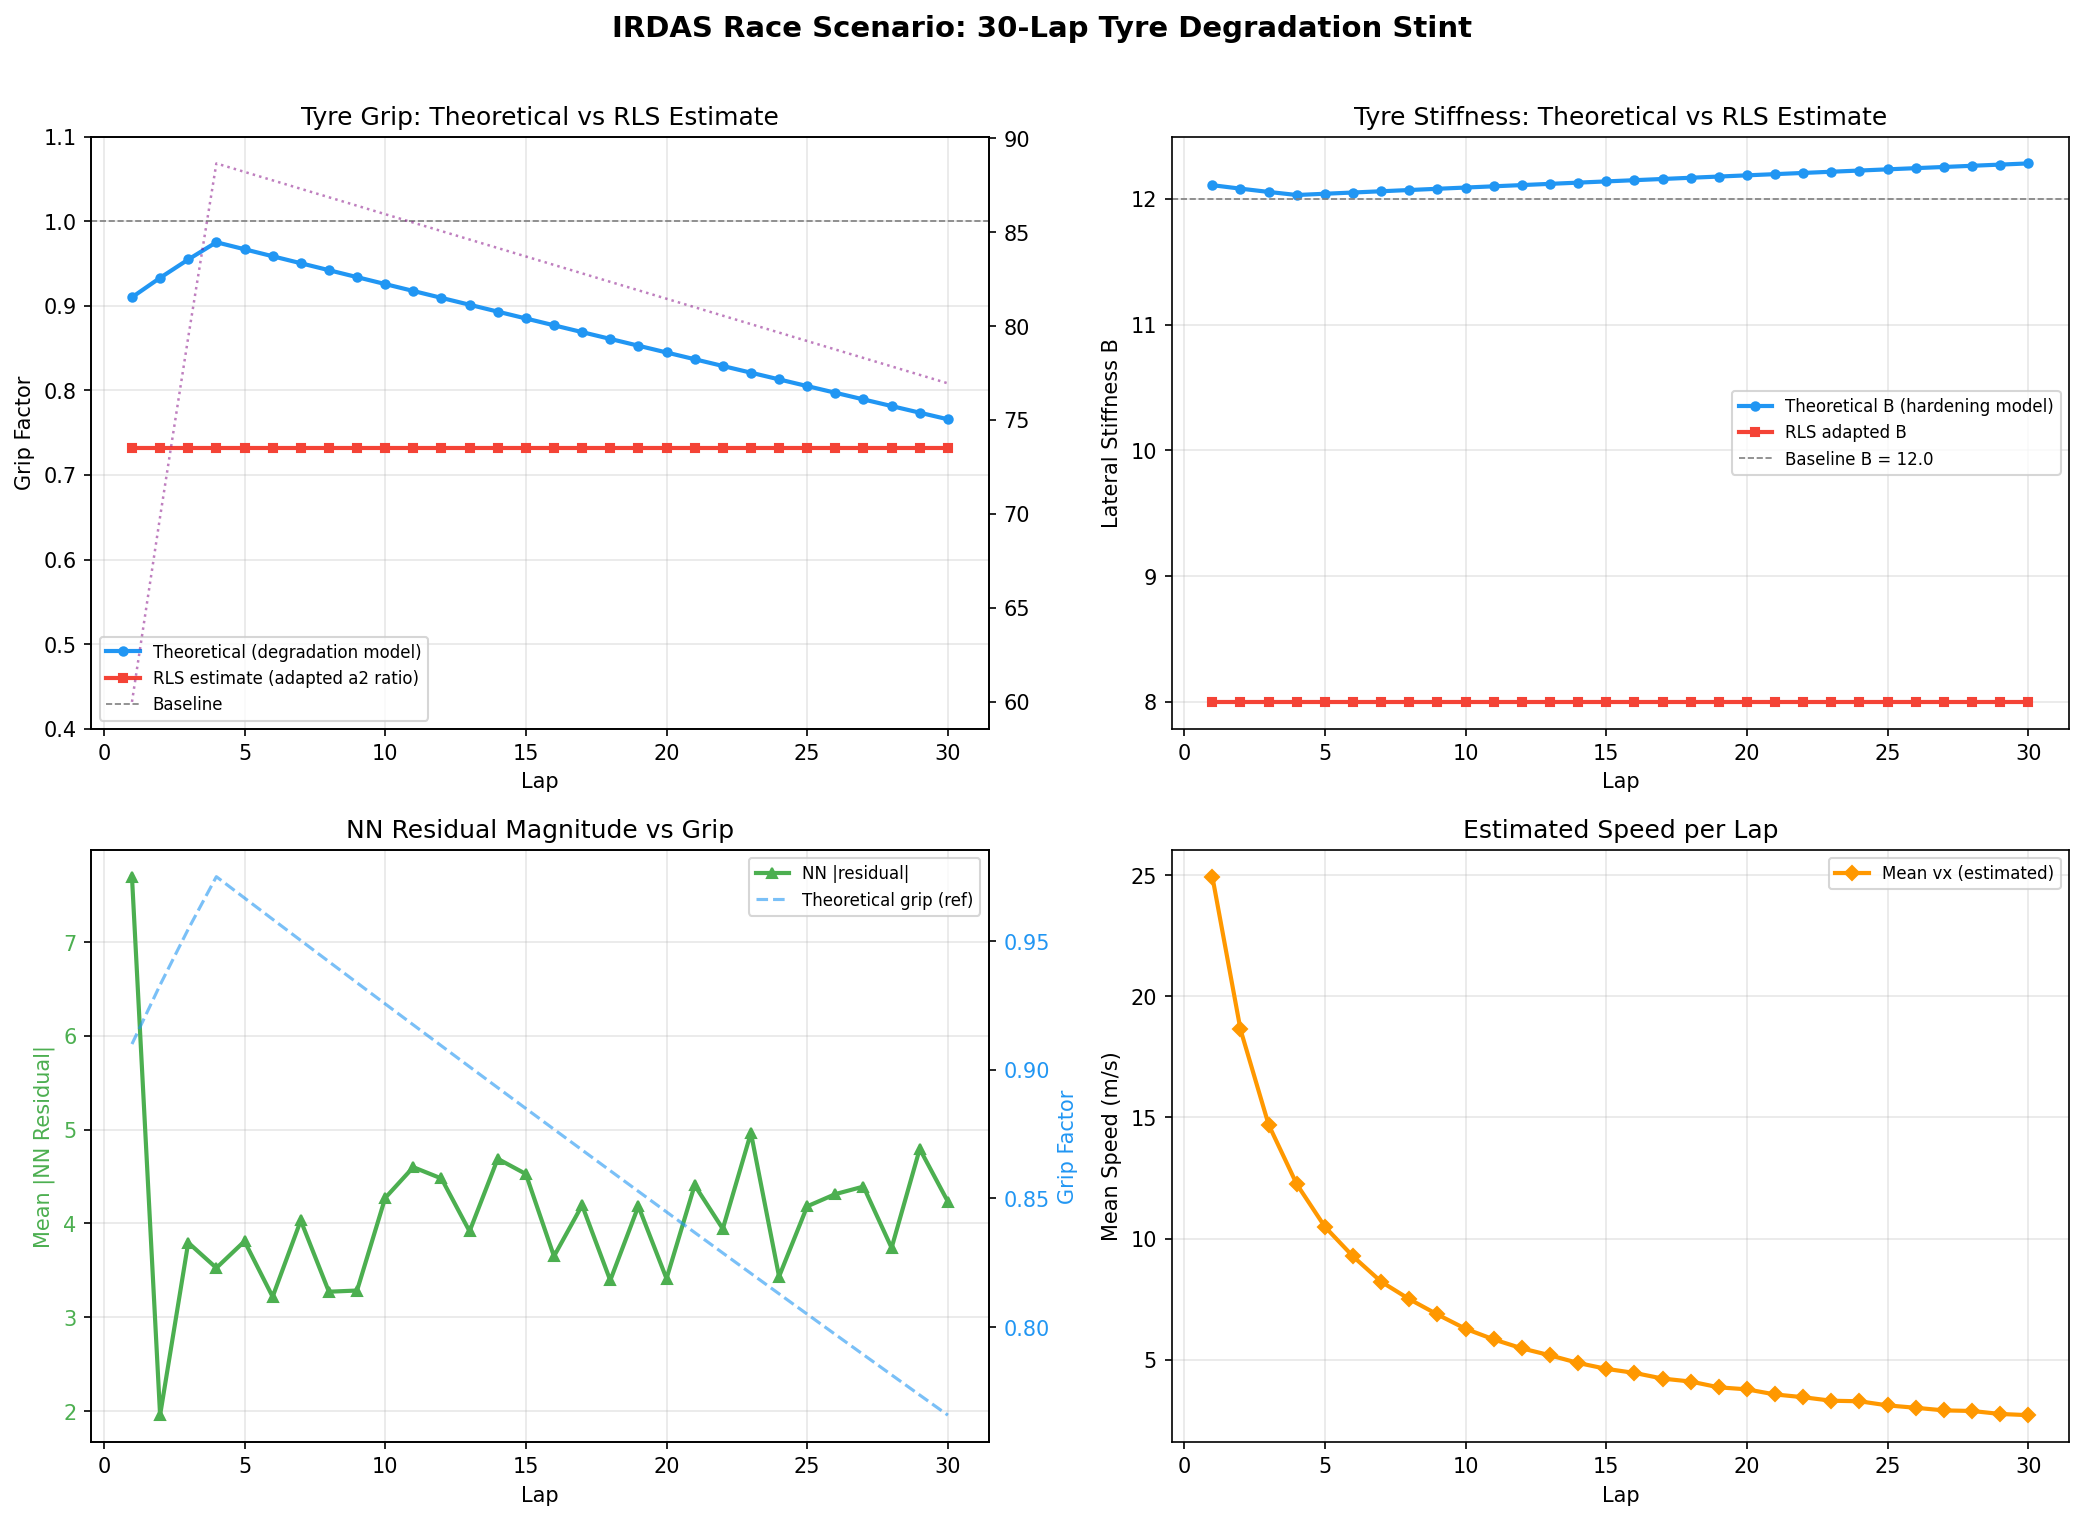
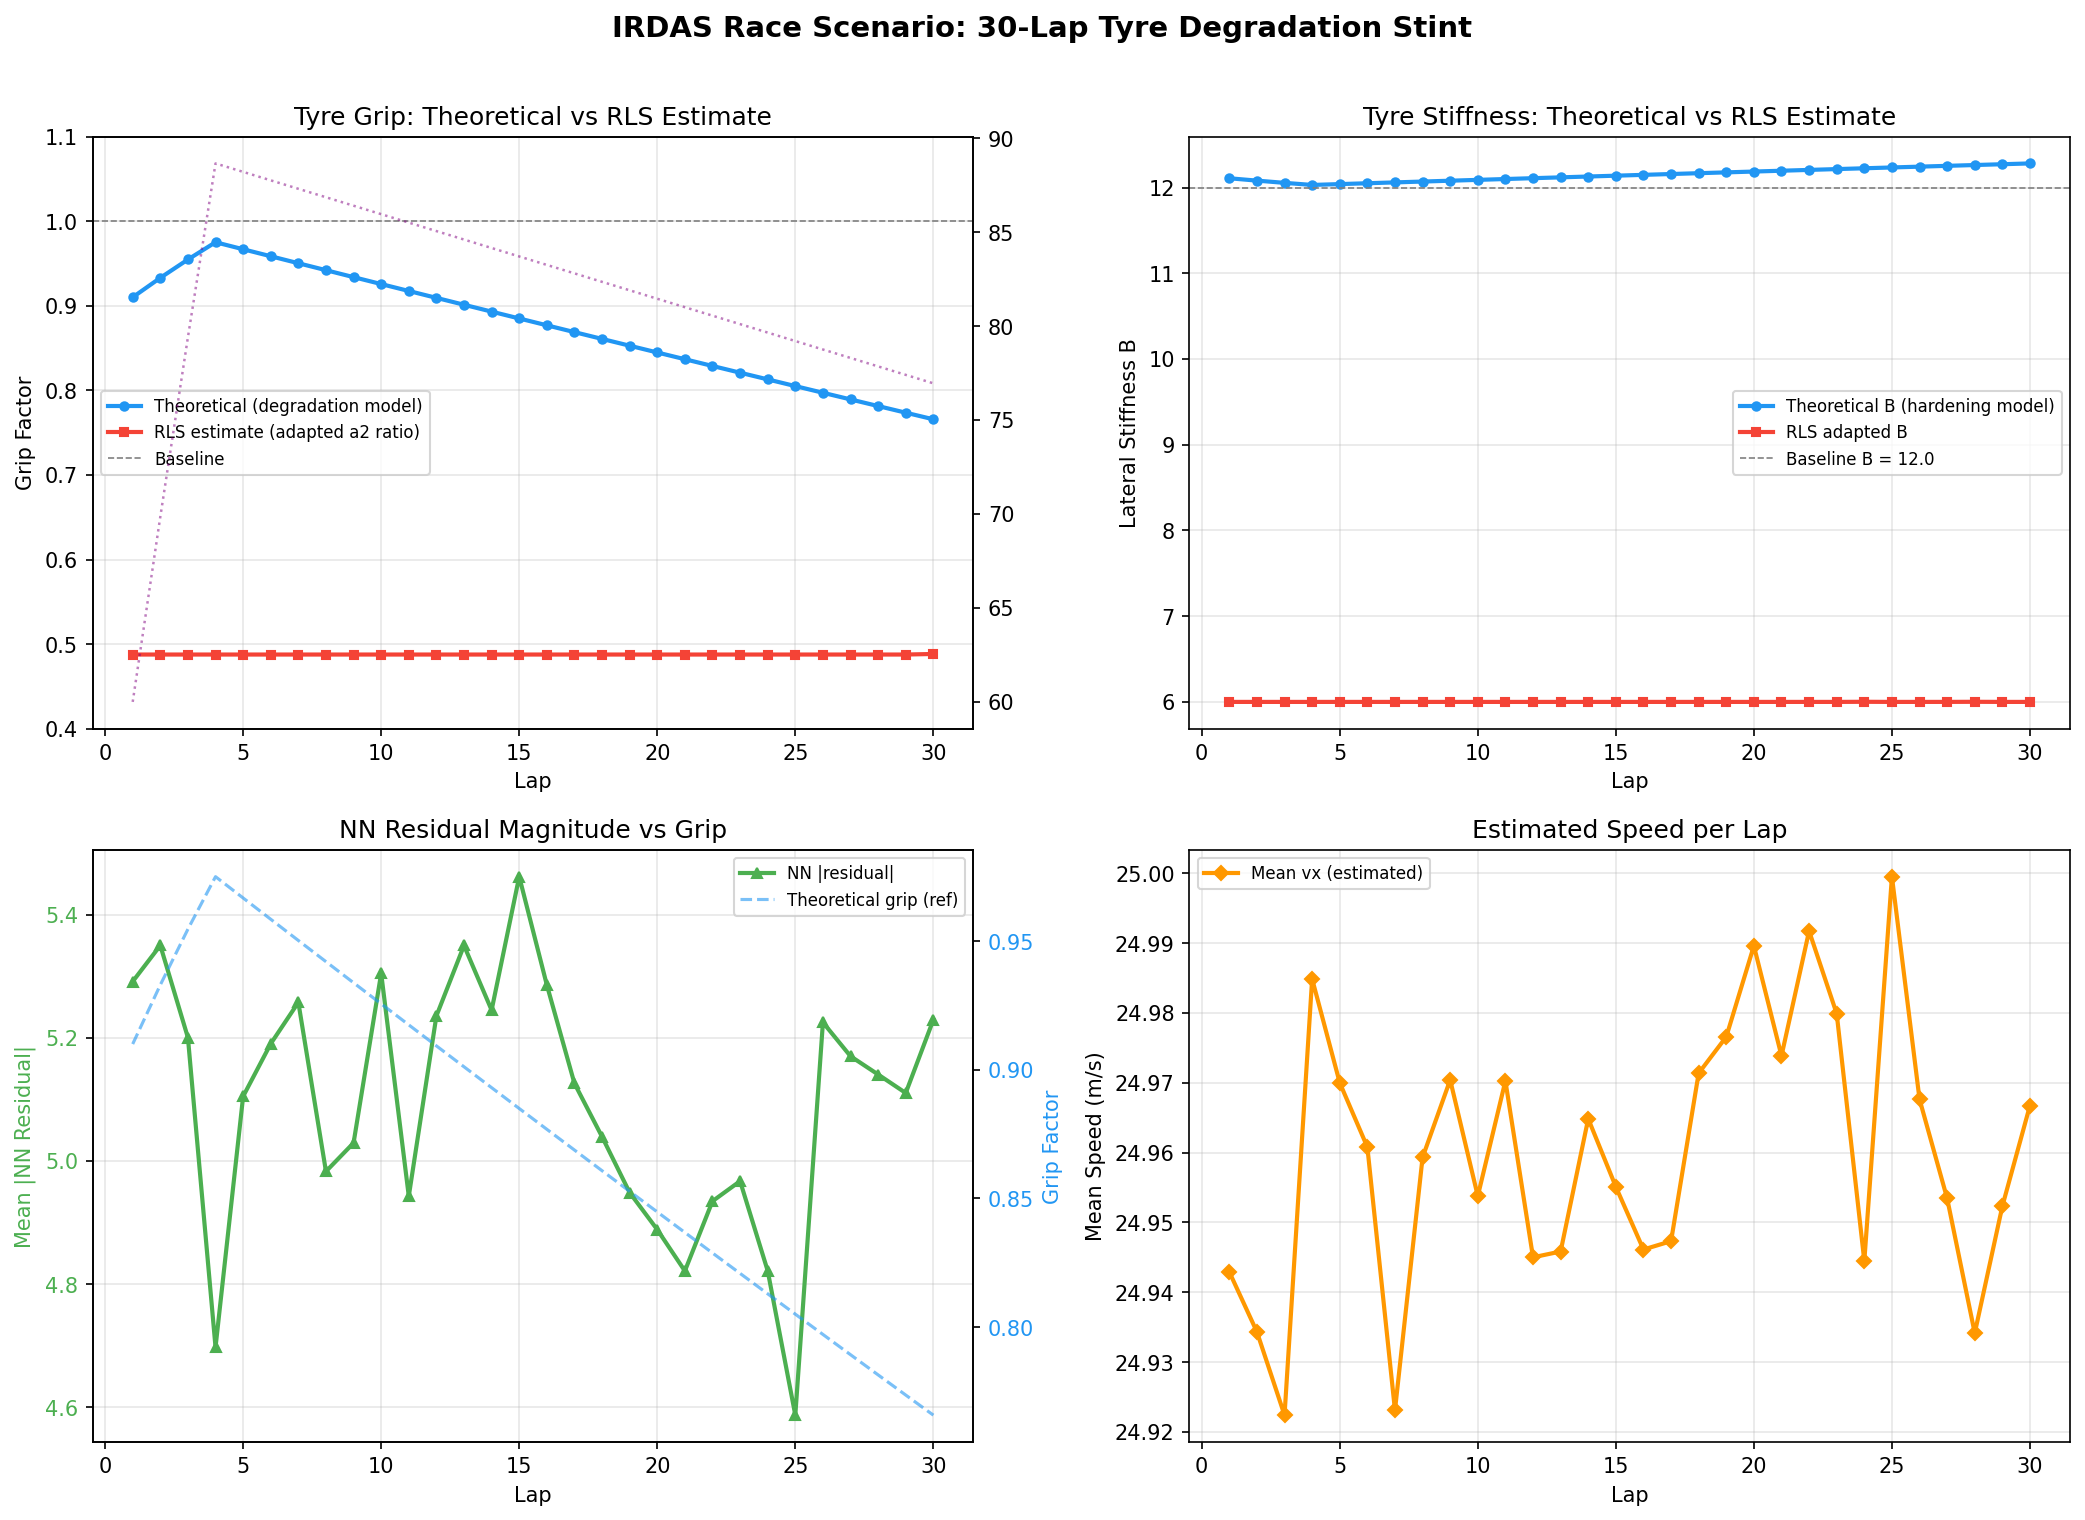
More fixes

diff --git a/irdas_main.py b/irdas_main.py
@@ -355,8 +355,7 @@ class IRDAS:
         
         # Step 1: Get true state from real vehicle simulator
         
-                
-        true_state_before = self.true_state.copy()          # save BEFORE stepping
+        true_state_before = self.true_state.copy()          # snapshot BEFORE step
         true_state_next = self.real_simulator.step(self.true_state, control, self.dt)
         self.true_state = true_state_next.copy()
 
@@ -390,14 +389,14 @@ class IRDAS:
         # Step 7: Parameter adaptation (optional)
         if use_param_adaptation and self.use_rls:
             model_error_norm = np.linalg.norm(model_error[:7])
-            if 0.001 < model_error_norm < 10.0:
+            if 1e-6 < model_error_norm < 10.0:
 
                 # --- extract what we need from true_state (already defined above) ---
-                vx  = self.true_state[3]
-                vy  = self.true_state[4]
-                r   = self.true_state[5]
-                vw_rl = self.true_state[8]
-                vw_rr = self.true_state[9]
+                vx    = true_state_before[3]
+                vy    = true_state_before[4]
+                r     = true_state_before[5]
+                vw_rl = true_state_before[8]
+                vw_rr = true_state_before[9]
 
                 # --- slip angles (mirrors twin_track.py logic) ---
                 L   = self.baseline_params.get('L',  3.6)
@@ -435,11 +434,9 @@ class IRDAS:
                 Fz_kN_wheels = np.array([Fz_front, Fz_front, Fz_rear, Fz_rear])
 
                 # --- force residuals: vy error -> lateral, vx error -> longitudinal ---
-                lat_force_error = model_error[4] * M_veh
+                lat_force_error = (model_error[4] + model_error[5] * 10.0) * M_veh
                 lon_force_error = model_error[3] * M_veh
-                if len(self.history['true_states']) % 400 == 0:  # print once per lap
-                    print(f"  [RLS DEBUG] lat_err={lat_force_error:.2f}N  lon_err={lon_force_error:.2f}N  "
-                        f"slip_angles={slip_angles}  model_error[:5]={model_error[:5]}")
+
                 self.param_adapter.update_rls(
                     slip_angles, slip_ratios, Fz_kN_wheels,
                     lat_force_error, lon_force_error,
@@ -466,14 +463,7 @@ class IRDAS:
         
         self.time_step += self.dt
         self.time_step_count = len(self.history['true_states'])
-        step = len(self.history['true_states'])
-        if step < 5:
-            print(f"\n--- Step {step} ---")
-            print(f"True state vx:        {true_state_next[3]:.3f}")
-            print(f"Measurement vx:       {measurement[5]:.3f}")
-            print(f"EKF estimate vx:      {estimated_state[3]:.3f}")
-            print(f"Innovation (z-h(x)):  {measurement - self.kalman_filter._measurement_function(self.kalman_filter.x)}")
-            print(f"P diagonal:           {np.diag(self.kalman_filter.P)}")
+
         return estimated_state
     
     def _generate_control(self, t=0):
@@ -699,6 +689,7 @@ if __name__ == "__main__":
     
     # Initialize real vehicle with mismatch
     irdas.initialize_real_vehicle(seed=42)
+
     print("Real vehicle simulator initialized with parameter mismatch")
     
     # Quick test: just a few steps

diff --git a/race_scenario.py b/race_scenario.py
@@ -178,13 +178,26 @@ def run_race_scenario(irdas: IRDAS, n_laps: int = N_LAPS,
 
     # Generate OU controls for full stint upfront
     total_steps  = n_laps * steps_per_lap
-    ou_controls  = generate_ou_controls(total_steps, DT)
+    rng = np.random.default_rng(42)
+    ou_controls  = np.zeros((total_steps, 3))
+    steer, throttle = 0.0, 0.85
+    for i in range(total_steps):
+        # Sinusoidal steering simulates corners — 3 corners per lap
+        lap_phase    = (i % steps_per_lap) / steps_per_lap
+        corner_steer = 0.12 * np.sin(2 * np.pi * lap_phase * 3)
+        steer        = np.clip(corner_steer + rng.normal(0, 0.01), -0.20, 0.20)
+        throttle     = np.clip(throttle + rng.normal(0, 0.02), 0.75, 1.0)
+        ou_controls[i] = [steer, throttle, 0.0]
 
     step_counter = 0
 
     for lap in range(n_laps):
         lap_residuals = []
         lap_vx        = []
+
+        # Reset vehicle speed at lap start — simulates completing a lap circuit
+        reset_state = INITIAL_STATE.copy()
+        irdas.true_state = reset_state.copy()
 
         # Update "real" vehicle tyre params for this lap
         degraded_params = degrade_tyre_params(irdas.baseline_params, lap, n_laps)

diff --git a/parameter_adapter.py b/parameter_adapter.py
@@ -24,13 +24,13 @@ class OnlineParameterAdapter:
         ]
 
         self.param_bounds = {
-            'TYRE_LAT_B':  (8.0,  16.0),
-            'TYRE_LAT_a2': (1.5,  2.5),
-            'TYRE_LON_B':  (8.0,  16.0),
-            'TYRE_LON_a2': (1.5,  2.5),
-            'M':  (baseline_params['M']  * 0.85, baseline_params['M']  * 1.15),
-            'Cd': (baseline_params['Cd'] * 0.85, baseline_params['Cd'] * 1.15),
-            'Cl': (baseline_params['Cl'] * 0.85, baseline_params['Cl'] * 1.15),
+            'TYRE_LAT_B':  (6.0,  20.0),
+            'TYRE_LAT_a2': (1.0,  3.0),
+            'TYRE_LON_B':  (6.0,  20.0),
+            'TYRE_LON_a2': (1.0,  3.0),
+            'M':  (baseline_params['M']  * 0.75, baseline_params['M']  * 1.25),
+            'Cd': (baseline_params['Cd'] * 0.75, baseline_params['Cd'] * 1.25),
+            'Cl': (baseline_params['Cl'] * 0.75, baseline_params['Cl'] * 1.25),
         }
 
         # Start with diagonal covariance — decoupled per-parameter updates
